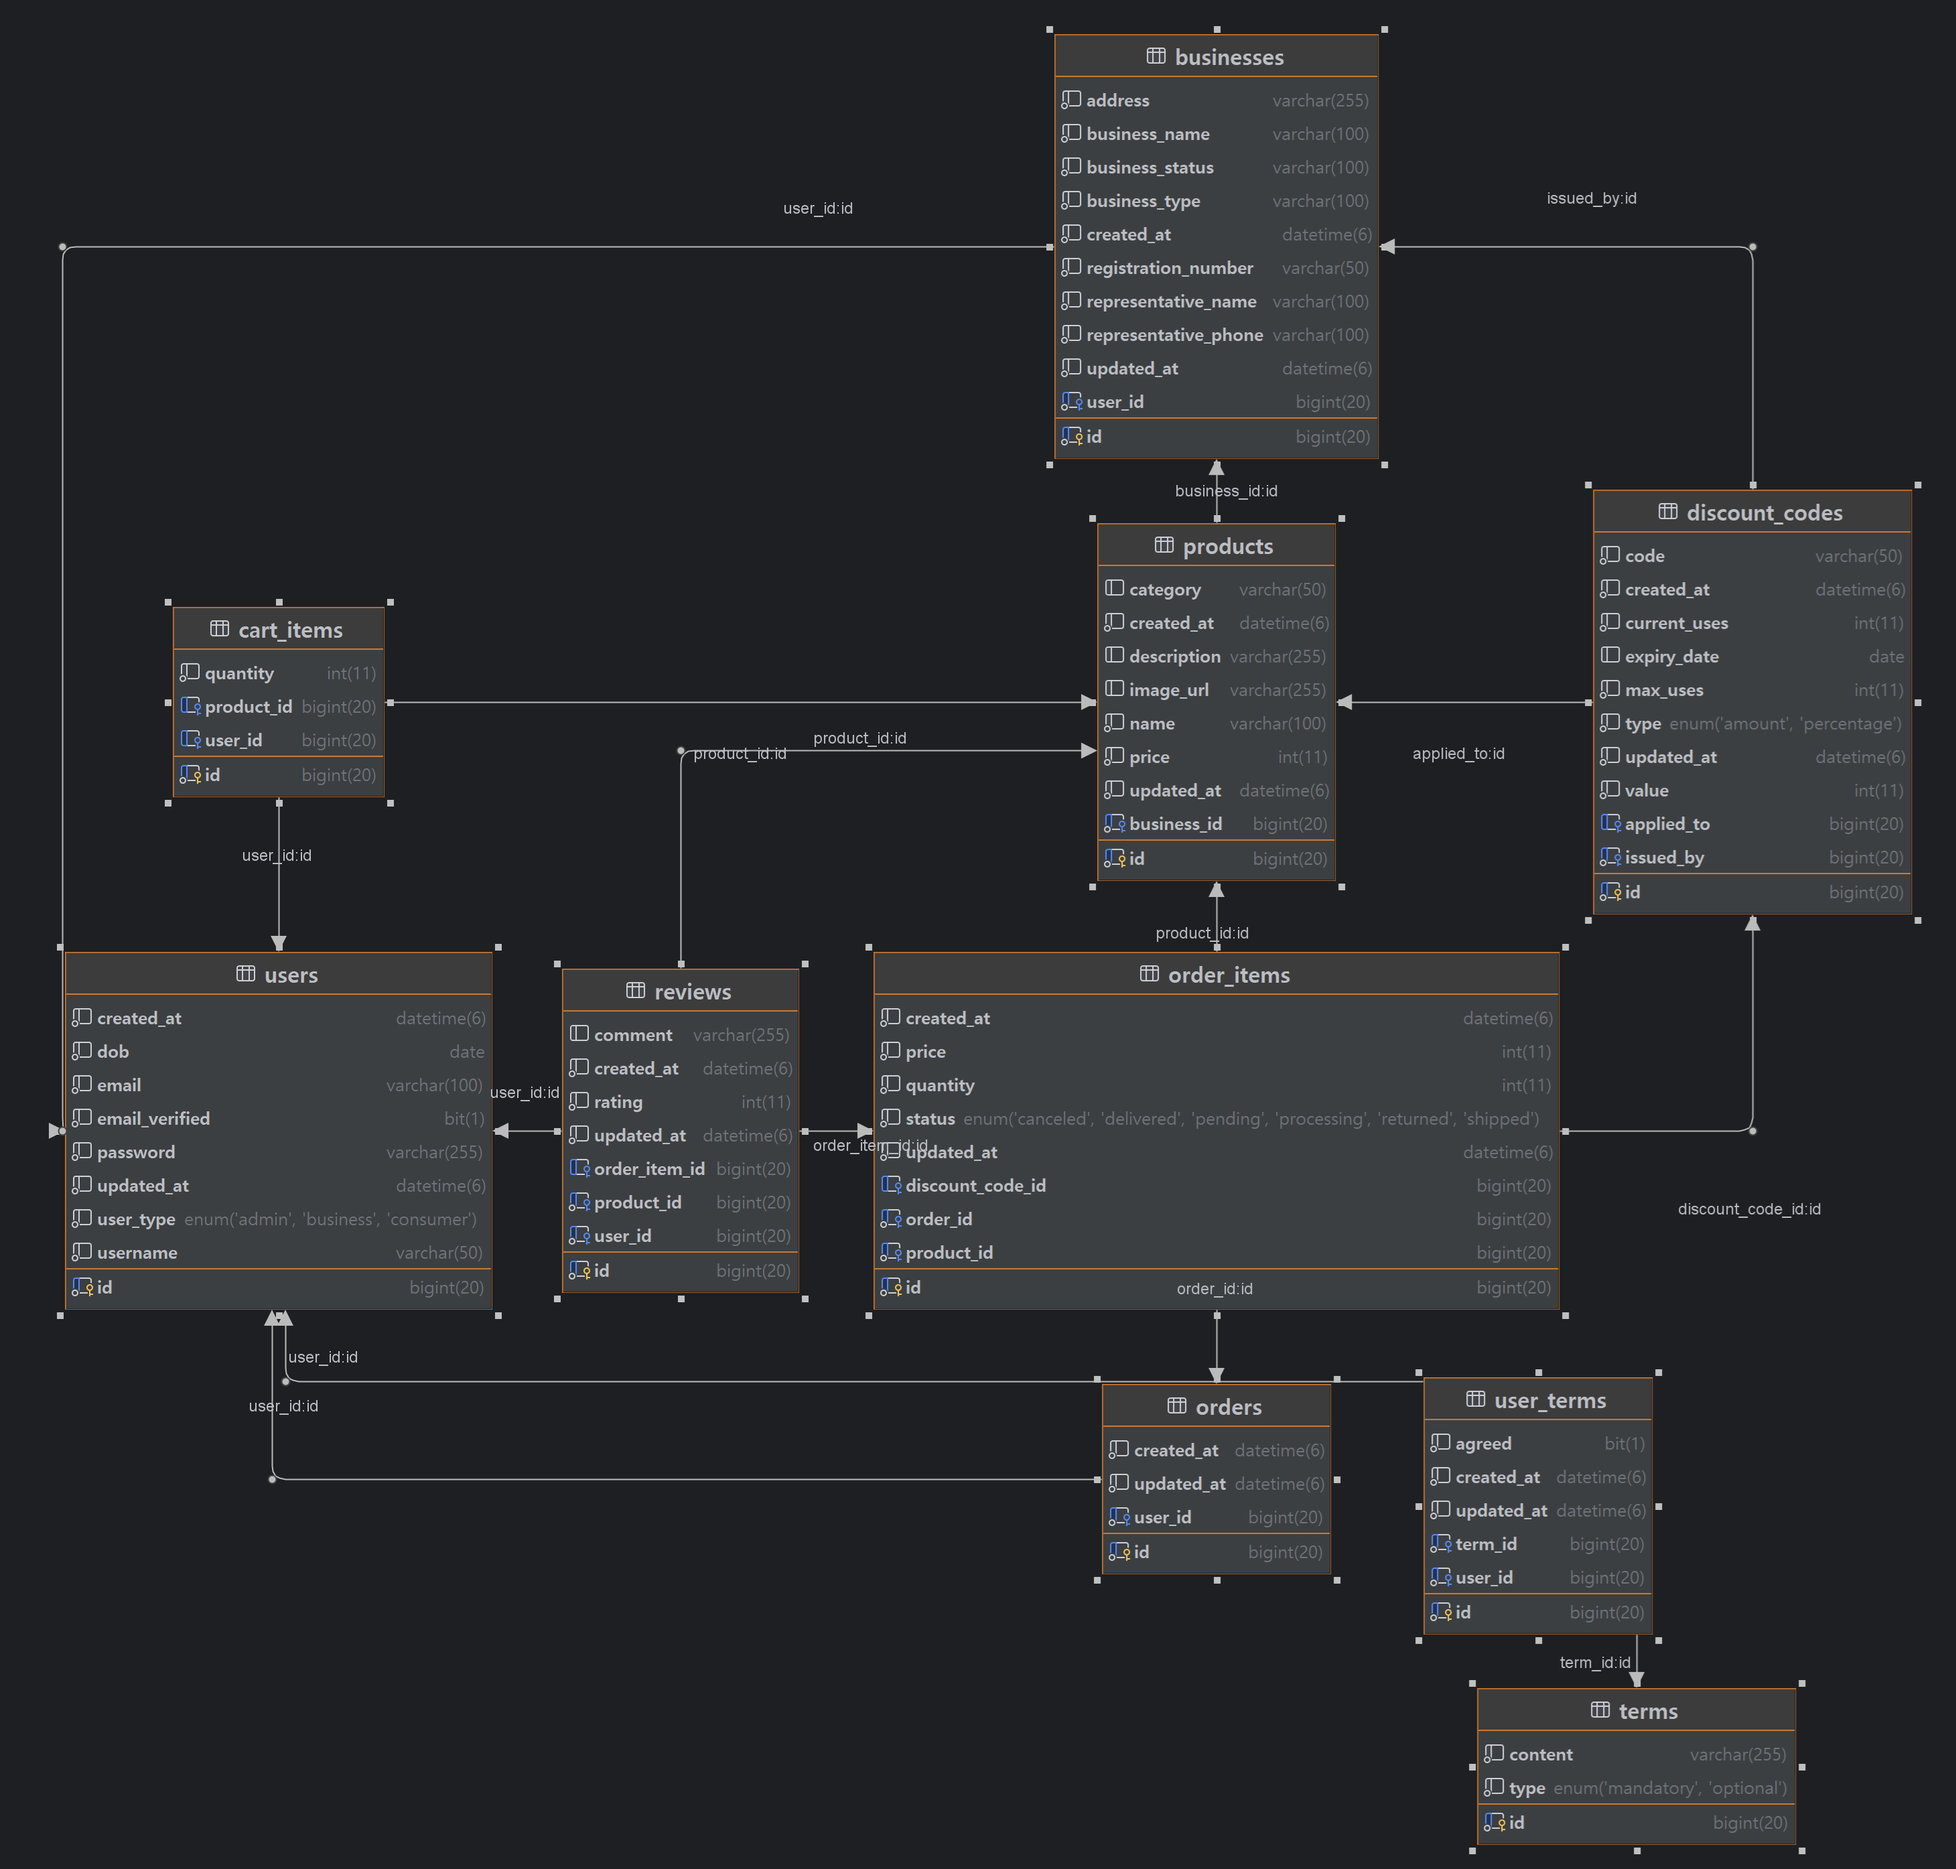
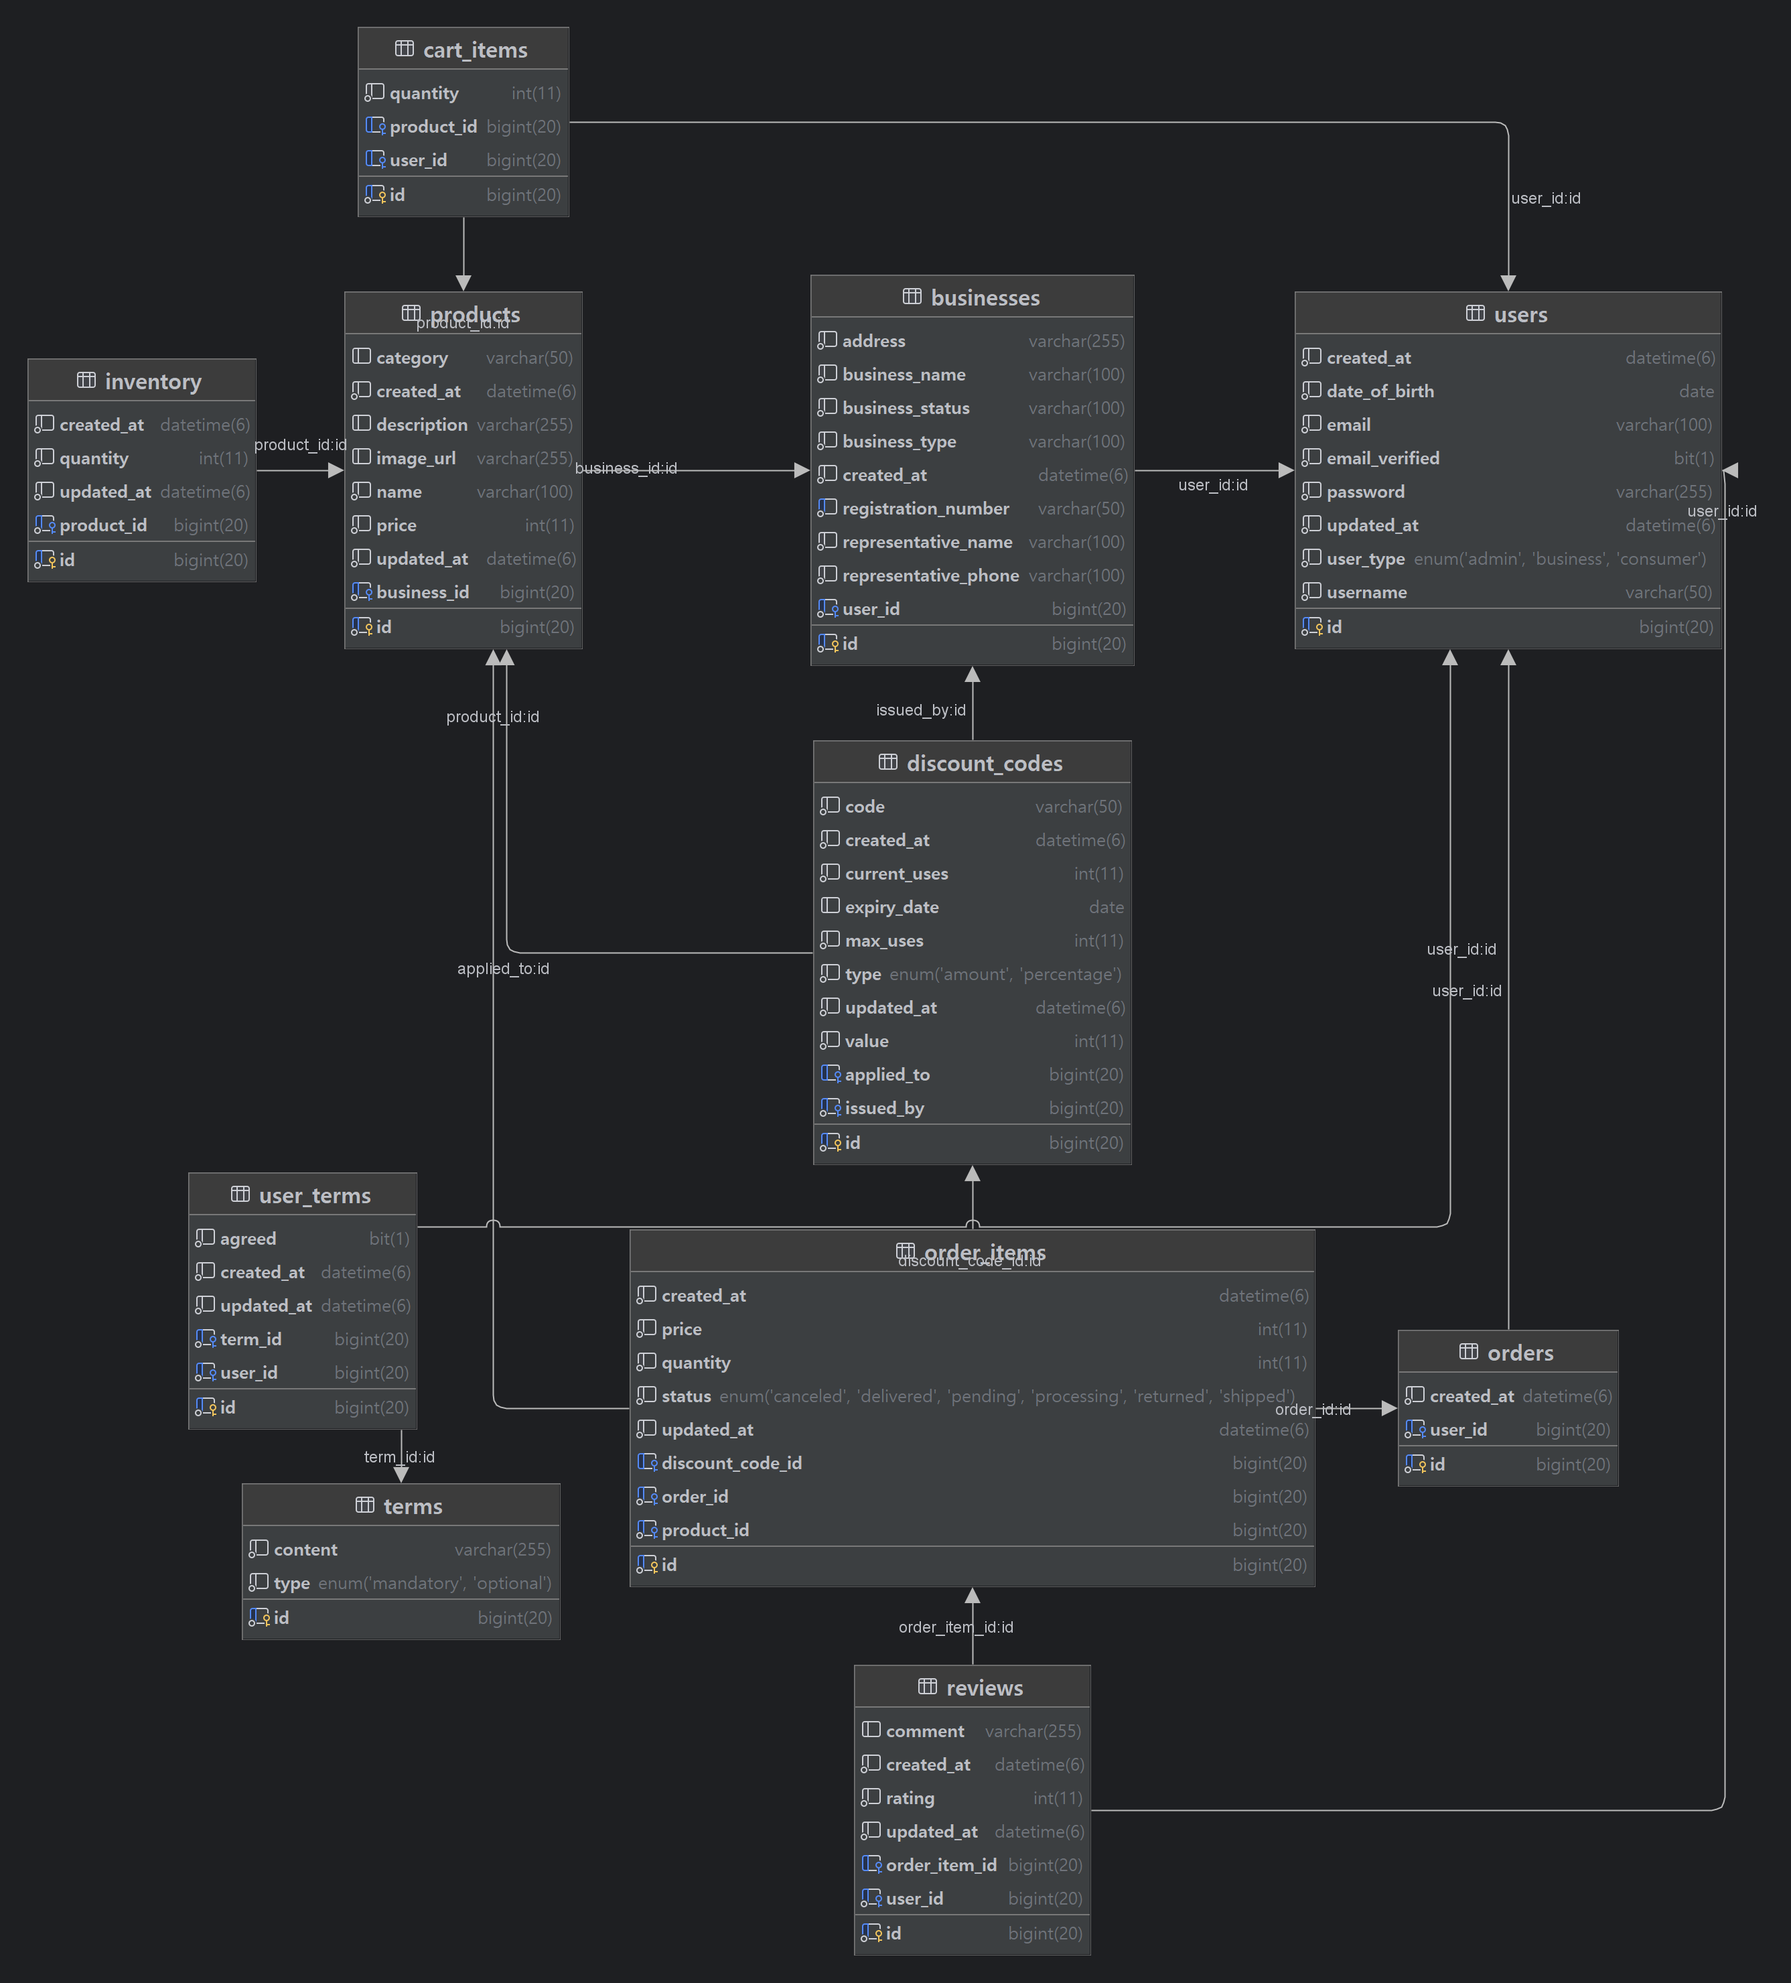
feat: ERD 설계 및 readme 작성

diff --git a/src/main/java/com/hyunn/commerceplatform/entity/Inventory.java b/src/main/java/com/hyunn/commerceplatform/entity/Inventory.java
@@ -1,20 +1,17 @@
 package com.hyunn.commerceplatform.entity;
 
-import jakarta.persistence.CascadeType;
 import jakarta.persistence.Column;
 import jakarta.persistence.Entity;
-import jakarta.persistence.EnumType;
-import jakarta.persistence.Enumerated;
 import jakarta.persistence.GeneratedValue;
 import jakarta.persistence.GenerationType;
 import jakarta.persistence.Id;
-import jakarta.persistence.OneToMany;
+import jakarta.persistence.JoinColumn;
+import jakarta.persistence.ManyToOne;
 import jakarta.persistence.PrePersist;
 import jakarta.persistence.PreUpdate;
 import jakarta.persistence.Temporal;
 import jakarta.persistence.TemporalType;
 import java.util.Date;
-import java.util.List;
 import lombok.AllArgsConstructor;
 import lombok.Data;
 import lombok.NoArgsConstructor;
@@ -23,31 +20,18 @@ import lombok.NoArgsConstructor;
 @Data
 @NoArgsConstructor
 @AllArgsConstructor
-public class Users {
+public class Inventory {
 
   @Id
   @GeneratedValue(strategy = GenerationType.IDENTITY)
   private Long id;
 
-  @Column(nullable = false, length = 50)
-  private String username;
+  @ManyToOne
+  @JoinColumn(name = "product_id", nullable = false)
+  private Products product;
 
   @Column(nullable = false)
-  private String password;
-
-  @Column(nullable = false)
-  @Temporal(TemporalType.DATE)
-  private Date dateOfBirth;
-
-  @Column(nullable = false, length = 100)
-  private String email;
-
-  @Column(nullable = false)
-  private Boolean emailVerified = false;
-
-  @Enumerated(EnumType.STRING)
-  @Column(nullable = false, length = 20)
-  private UserType userType;
+  private int quantity;
 
   @Column(nullable = false, updatable = false)
   @Temporal(TemporalType.TIMESTAMP)
@@ -56,18 +40,6 @@ public class Users {
   @Column(nullable = false)
   @Temporal(TemporalType.TIMESTAMP)
   private Date updatedAt;
-
-  @OneToMany(mappedBy = "user", cascade = CascadeType.ALL, orphanRemoval = true)
-  private List<Businesses> businesses;
-
-  @OneToMany(mappedBy = "user")
-  private List<Orders> orders;
-
-  @OneToMany(mappedBy = "user", cascade = CascadeType.ALL, orphanRemoval = true)
-  private List<Reviews> reviews;
-
-  @OneToMany(mappedBy = "user", cascade = CascadeType.ALL, orphanRemoval = true)
-  private List<CartItems> cartItems;
 
   @PrePersist
   protected void onCreate() {

diff --git a/src/main/java/com/hyunn/commerceplatform/entity/Businesses.java b/src/main/java/com/hyunn/commerceplatform/entity/Businesses.java
@@ -9,7 +9,6 @@ import jakarta.persistence.JoinColumn;
 import jakarta.persistence.ManyToOne;
 import jakarta.persistence.OneToMany;
 import jakarta.persistence.PrePersist;
-import jakarta.persistence.PreUpdate;
 import jakarta.persistence.Temporal;
 import jakarta.persistence.TemporalType;
 import java.util.Date;
@@ -57,22 +56,13 @@ public class Businesses {
   @Temporal(TemporalType.TIMESTAMP)
   private Date createdAt;
 
-  @Column(nullable = false)
-  @Temporal(TemporalType.TIMESTAMP)
-  private Date updatedAt;
-
   @OneToMany(mappedBy = "business")
   private List<Products> products;
 
   @PrePersist
   protected void onCreate() {
     createdAt = new Date();
-    updatedAt = new Date();
   }
 
-  @PreUpdate
-  protected void onUpdate() {
-    updatedAt = new Date();
-  }
 }
 

diff --git a/src/main/java/com/hyunn/commerceplatform/entity/Products.java b/src/main/java/com/hyunn/commerceplatform/entity/Products.java
@@ -57,9 +57,6 @@ public class Products {
   private Businesses business;
 
   @OneToMany(mappedBy = "product", cascade = CascadeType.ALL, orphanRemoval = true)
-  private List<Reviews> reviews;
-
-  @OneToMany(mappedBy = "product", cascade = CascadeType.ALL, orphanRemoval = true)
   private List<OrderItems> orderItems;
 
   @PrePersist

diff --git a/src/main/java/com/hyunn/commerceplatform/entity/Reviews.java b/src/main/java/com/hyunn/commerceplatform/entity/Reviews.java
@@ -28,10 +28,6 @@ public class Reviews {
   private Long id;
 
   @ManyToOne
-  @JoinColumn(name = "product_id", nullable = false)
-  private Products product;
-
-  @ManyToOne
   @JoinColumn(name = "user_id", nullable = false)
   private Users user;
 

diff --git a/readme.md b/readme.md
@@ -15,8 +15,8 @@
 
 ## 프로젝트 설명
 
-이 프로젝트는 온라인 쇼핑몰 재고 관리 시스템으로, 각 사업자가 자신의 재고와 주문을 효율적으로 관리할 수 있도록 지원합니다. 공공데이터포털 API를 활용한 사업자 등록 정보 진위
-확인, 이메일 인증과 알림 기능을 제공하며, 결제와 할인코드 적용의 기능도 제공합니다.
+이 프로젝트는 온라인 쇼핑몰 재고 관리 시스템으로, 각 사업자가 자신의 재고와 주문을 효율적으로 관리할 수 있도록 지원합니다. 공공데이터포털 API를 활용한 사업자 등록 정보
+진위확인, 이메일 인증과 알림 기능을 제공하며, 결제와 할인코드 적용의 기능도 제공합니다.
 
 --- 
 
@@ -25,19 +25,19 @@
 ### User 기능
 
 - 회원 가입
-    - (소비자) ID, PW, Email, 이름, 생년월일
-    - (사업자) ID, PW, Email, 이름, 생년월일, 사업체 정보
-    - [공공데이터포털 API](https://www.data.go.kr/data/15081808/openapi.do)를 활용한 사업자등록정보
-      진위확인 ([명세](#공공데이터포털-사업자등럭정보-진위확인-API-명세))
-    - 이메일 인증
-    - 필수, 선택 약관 동의
+  - (소비자) ID, PW, Email, 이름, 생년월일
+  - (사업자) ID, PW, Email, 이름, 생년월일, 사업체 정보
+  - [공공데이터포털 API](https://www.data.go.kr/data/15081808/openapi.do)를 활용한 사업자등록정보
+    진위확인 ([명세](#공공데이터포털-사업자등럭정보-진위확인-API-명세))
+  - 이메일 인증
+  - 필수, 선택 약관 동의
 - 로그인
-    - JWT 토큰을 사용한 인증 및 세션 관리
-    - 로그인 실패 횟수에 따른 계정 잠금 (잠금 상태 알림)
-    - 이메일 인증을 통한 비밀번호 복구
+  - JWT 토큰을 사용한 인증 및 세션 관리
+  - 로그인 실패 횟수에 따른 계정 잠금 (잠금 상태 알림)
+  - 이메일 인증을 통한 비밀번호 복구
 - 사용자 활동
-    - 로그인 위치 정보 기록
-    - 재고 등록/수정/삭제 기록
+  - 로그인 위치 정보 기록
+  - 재고 등록/수정/삭제 기록
 
 ### 재고관리 기능
 
@@ -61,24 +61,24 @@
 ### 할인코드 기능
 
 - 할인코드 생성 및 관리
-    - 코드, 할인 유형(금액/비율), 할인 값, 만료일, 총 수량, 사용된 수량
+  - 코드, 할인 유형(금액/비율), 할인 값, 만료일, 총 수량, 사용된 수량
 - 할인코드 적용
-    - 주문 시 할인코드 입력 및 검증
-    - 유효한 할인코드의 경우 할인 적용
+  - 주문 시 할인코드 입력 및 검증
+  - 유효한 할인코드의 경우 할인 적용
 - 사용된 수량 업데이트
 - 자동 만료 처리
 
 ### 소비자 기능
 
 - 상품 검색 및 조회
-    - 카테고리별, 가격대별 상품 검색
-    - 상세 상품 정보 조회
+  - 카테고리별, 가격대별 상품 검색
+  - 상세 상품 정보 조회
 - 장바구니
-    - 상품을 장바구니에 추가/삭제
-    - 장바구니 내 상품 수량 수정
+  - 상품을 장바구니에 추가/삭제
+  - 장바구니 내 상품 수량 수정
 - 주문
-    - 주문 생성 및 결제 (모의 결제 서비스: Stripe API)
-    - 주문 내역 조회 및 상태 확인
+  - 주문 생성 및 결제 (모의 결제 서비스: Stripe API)
+  - 주문 내역 조회 및 상태 확인
 
 ### 기타
 
@@ -124,7 +124,7 @@
 |----------------|-----------------------|------------------------------------------|
 | id             | bigint auto_increment | Primary key                              |
 | created_at     | datetime(6)           | 생성 일자                                    |
-| dob            | date                  | 생년월일                                     |
+| date_of_birth  | date                  | 생년월일                                     |
 | email          | varchar(100)          | 이메일 주소                                   |
 | email_verified | bit                   | 이메일 인증 여부                                |
 | password       | varchar(255)          | 비밀번호                                     |
@@ -145,7 +145,6 @@
 | registration_number  | varchar(50)           | 사업자 등록번호               |
 | representative_name  | varchar(100)          | 대표자 이름                 |
 | representative_phone | varchar(100)          | 대표자 전화번호               |
-| updated_at           | datetime(6)           | 업데이트 일자                |
 | user_id              | bigint                | Foreign key (users.id) |
 
 ### Orders
@@ -154,7 +153,6 @@
 |------------|-----------------------|------------------------|
 | id         | bigint auto_increment | Primary key            |
 | created_at | datetime(6)           | 생성 일자                  |
-| updated_at | datetime(6)           | 업데이트 일자                |
 | user_id    | bigint                | Foreign key (users.id) |
 
 ### Products
@@ -220,7 +218,6 @@
 | rating        | int                   | 평점                           |
 | updated_at    | datetime(6)           | 업데이트 일자                      |
 | order_item_id | bigint                | Foreign key (order_items.id) |
-| product_id    | bigint                | Foreign key (products.id)    |
 | user_id       | bigint                | Foreign key (users.id)       |
 
 ### User Terms
@@ -234,6 +231,16 @@
 | term_id    | bigint                | Foreign key (terms.id) |
 | user_id    | bigint                | Foreign key (users.id) |
 
+### Inventory
+
+| 필드 이름      | 데이터 타입                | 설명                        |
+|------------|-----------------------|---------------------------|
+| id         | bigint auto_increment | Primary key               |
+| product_id | bigint                | Foreign key (products.id) |
+| quantity   | int                   | 재고 수량                     |
+| created_at | datetime(6)           | 생성 일자                     |
+| updated_at | datetime(6)           | 업데이트 일자                   |
+
 ---
 
 ## 추가 구현 예정
@@ -241,12 +248,12 @@
 ### User 기능
 
 - 회원 가입
-    - 카카오 로그인 API를 활용한 회원가입
+  - 카카오 로그인 API를 활용한 회원가입
 - 로그인
-    - 카카오 엑세스 토큰을 사용한 인증 및 세션 관리
+  - 카카오 엑세스 토큰을 사용한 인증 및 세션 관리
 - 사용자 활동
-    - 로그인 위치 정보 기록
-    - 재고 등록/수정/삭제 기록
+  - 로그인 위치 정보 기록
+  - 재고 등록/수정/삭제 기록
 
 ### 주문내역 기능
 
@@ -255,12 +262,12 @@
 ### 할인코드 기능
 
 - 할인코드 조건
-    - 특정 조건(최소 주문 금액, 특정 상품 등)에 맞는 할인코드 적용
+  - 특정 조건(최소 주문 금액, 특정 상품 등)에 맞는 할인코드 적용
 
 ### 소비자 기능
 
 - 주문
-    - 환불 신청
+  - 환불 신청
 
 ### 대시보드 기능
 
